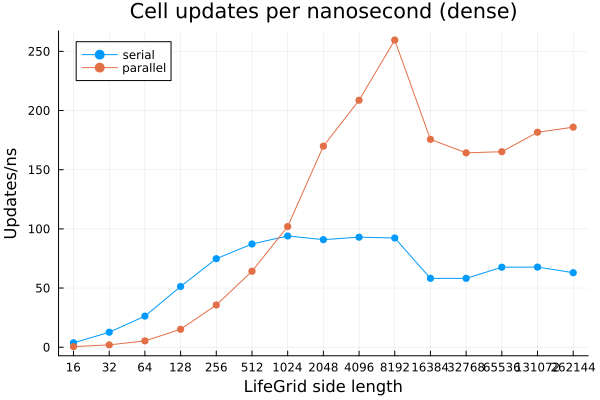
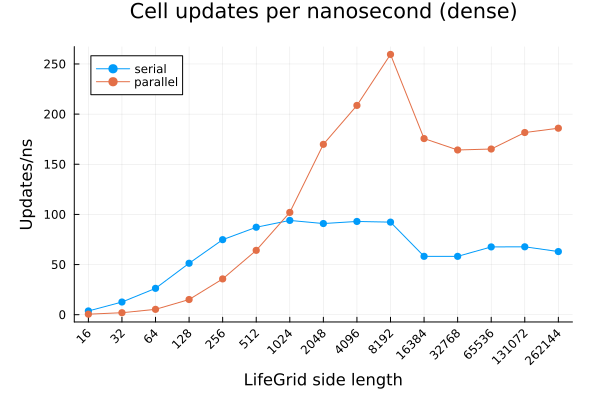
Fixed overlapping numbers on x-axis of plots

diff --git a/README.md b/README.md
@@ -151,7 +151,8 @@ for (density, serial_ops, parallel_ops) in (("dense", dense_serial_ops, dense_pa
     plot( lengths, serial_ops, title="Cell updates per nanosecond ($density)",
           label="serial", xlabel="LifeGrid side length", ylabel="Updates/ns",
           legend_position=:topleft, marker=:circle, markerstrokewidth=0,
-          xscale=:log10, xticks=(lengths, lengths), size=(600, 400))
+          xscale=:log10, xticks=(lengths, lengths), xrotation=45,
+          margin=(5, :mm), size=(600, 400))
     plot!(lengths, parallel_ops, label="parallel", marker=:circle, markerstrokewidth=0)
     png("benchmark-results-$density.png")
 end
